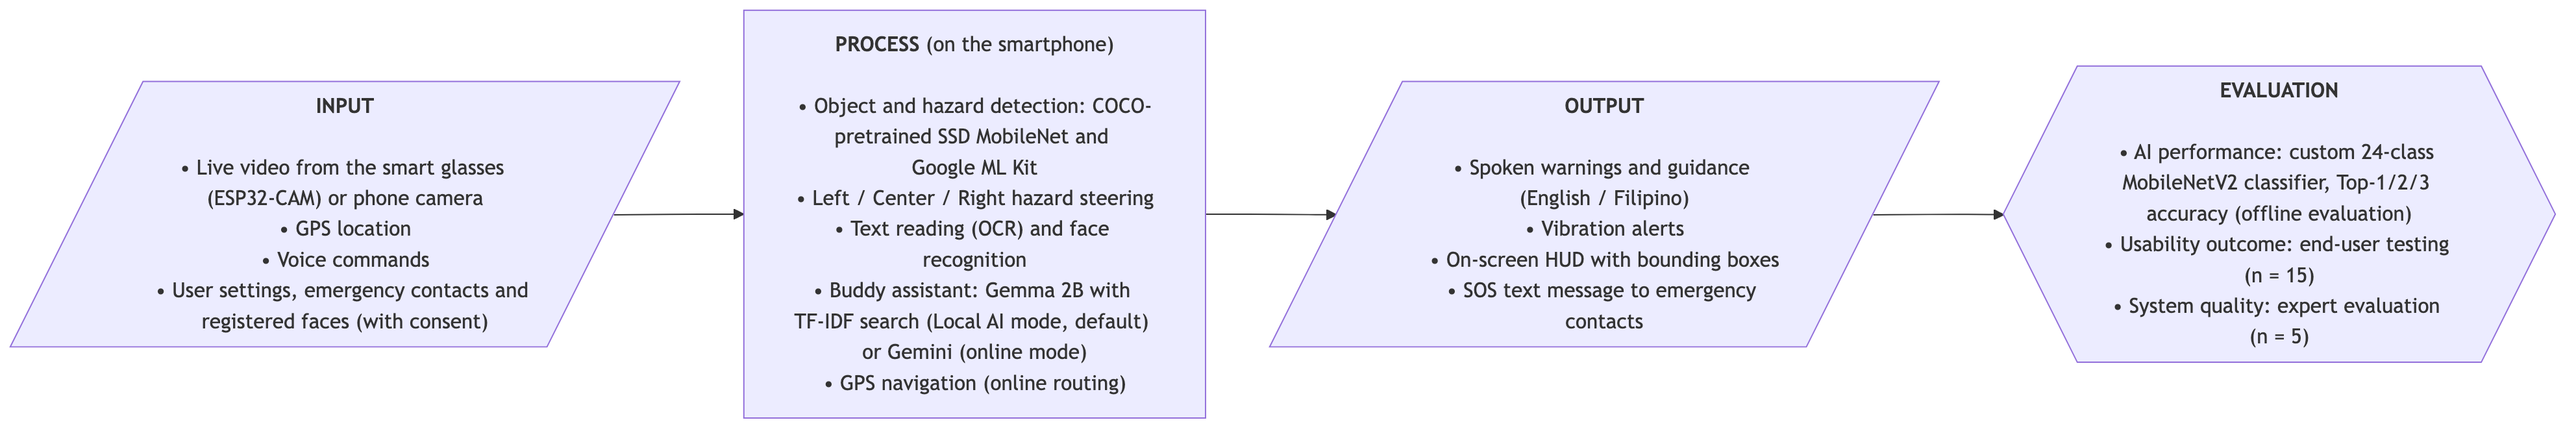
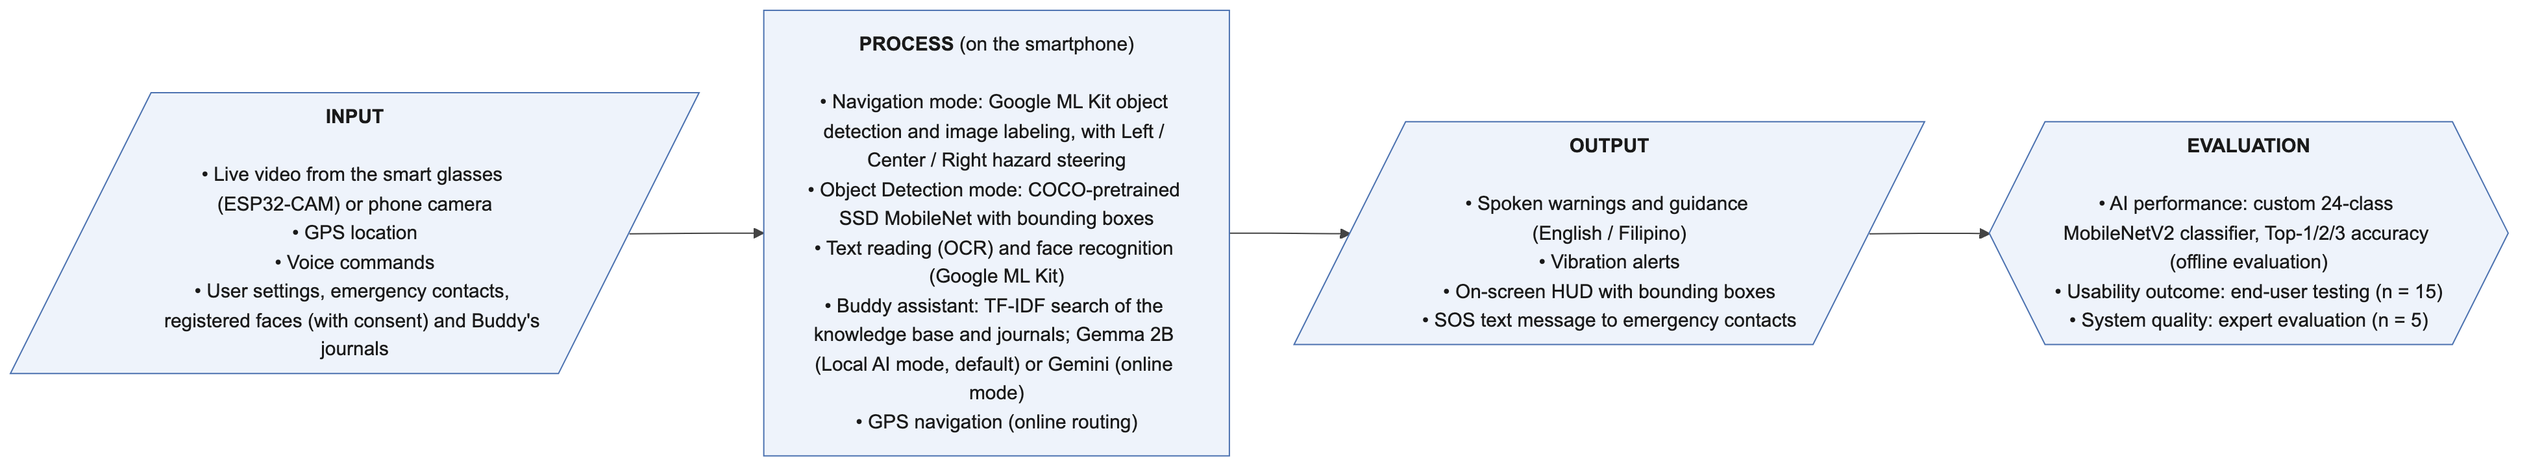
docs(figures): split detection models by mode and add journals in Figure 2.1

diff --git a/docs/architecture/conceptual_framework.md b/docs/architecture/conceptual_framework.md
@@ -48,11 +48,11 @@ flowchart LR
 **Figure 2.1.** Conceptual Framework of EasyLens
 
 ```mermaid
-%%{init: {"flowchart": {"wrappingWidth": 300}}}%%
+%%{init: {"theme": "base", "themeVariables": {"primaryColor": "#EEF3FB", "primaryBorderColor": "#4C72B0", "primaryTextColor": "#1A1A1A", "lineColor": "#444444", "fontFamily": "arial, sans-serif", "fontSize": "15px"}, "fontFamily": "arial, sans-serif", "flowchart": {"wrappingWidth": 300}}}%%
 flowchart LR
-    INPUT[/"<b>INPUT</b><br/><br/>• Live video from the smart glasses (ESP32-CAM) or phone camera<br/>• GPS location<br/>• Voice commands<br/>• User settings, emergency contacts and registered faces (with consent)"/]
+    INPUT[/"<b>INPUT</b><br/><br/>• Live video from the smart glasses (ESP32‑CAM) or phone camera<br/>• GPS location<br/>• Voice commands<br/>• User settings, emergency contacts, registered faces (with consent) and Buddy's journals"/]
 
-    PROCESS["<b>PROCESS</b> (on the smartphone)<br/><br/>• Object and hazard detection: COCO-pretrained SSD&nbsp;MobileNet and Google&nbsp;ML&nbsp;Kit<br/>• Left / Center / Right hazard steering<br/>• Text reading (OCR) and face recognition<br/>• Buddy assistant: Gemma 2B with TF‑IDF search (Local AI mode, default) or Gemini (online mode)<br/>• GPS navigation (online routing)"]
+    PROCESS["<b>PROCESS</b> (on the smartphone)<br/><br/>• Navigation mode: Google&nbsp;ML&nbsp;Kit object detection and image labeling, with Left / Center / Right hazard steering<br/>• Object Detection mode: COCO-pretrained SSD&nbsp;MobileNet with bounding boxes<br/>• Text reading (OCR) and face recognition (Google&nbsp;ML&nbsp;Kit)<br/>• Buddy assistant: TF‑IDF search of the knowledge base and journals; Gemma 2B (Local AI mode, default) or Gemini (online mode)<br/>• GPS navigation (online routing)"]
 
     OUTPUT[/"<b>OUTPUT</b><br/><br/>• Spoken warnings and guidance (English&nbsp;/&nbsp;Filipino)<br/>• Vibration alerts<br/>• On-screen HUD with bounding boxes<br/>• SOS text message to emergency contacts"/]
 
